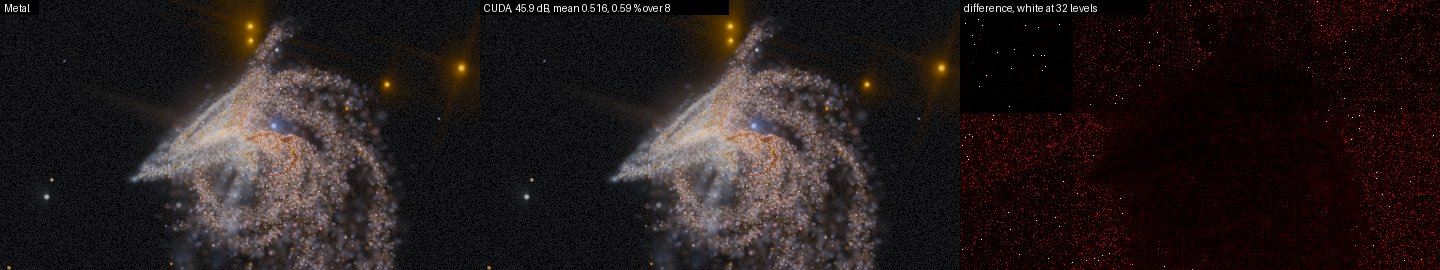
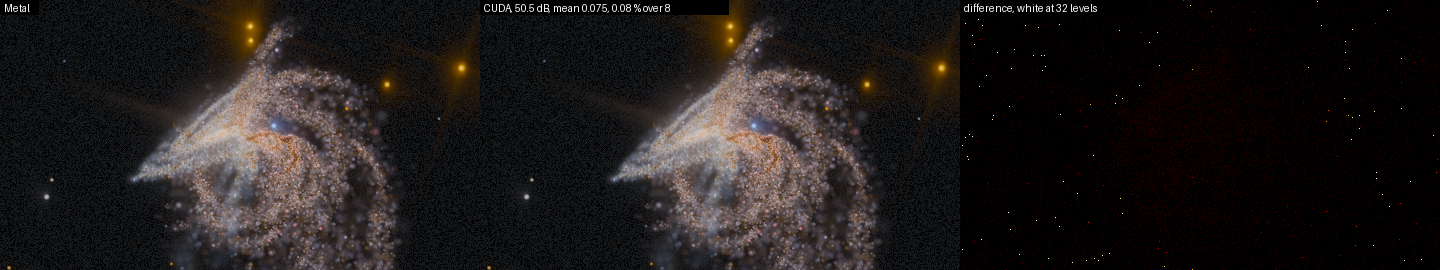
docs(cuda): the stills' pairs after the grain's second change (#277)

diff --git a/docs/spikes/cuda-checks/stills/compare/pairs/comparison.md b/docs/spikes/cuda-checks/stills/compare/pairs/comparison.md
@@ -1,11 +1,11 @@
 | frame | drawn | half floats in the particle passes | Metal's light developed here |
 | --- | --- | --- | --- |
-| hubble-close | 47.8 dB, mean 0.357, 0.37 % over 8 | 47.8 dB, mean 0.347, 0.37 % over 8 | 47.9 dB, mean 0.341, 0.37 % over 8 |
-| hubble-noweb-close | 47.8 dB, mean 0.352, 0.36 % over 8 | 47.9 dB, mean 0.342, 0.36 % over 8 | 47.9 dB, mean 0.340, 0.37 % over 8 |
-| hubble-noweb-pericentre | 45.9 dB, mean 0.516, 0.59 % over 8 | 45.9 dB, mean 0.505, 0.59 % over 8 | 45.9 dB, mean 0.505, 0.59 % over 8 |
-| hubble-noweb-wide | 46.7 dB, mean 0.300, 0.42 % over 8 | 46.7 dB, mean 0.289, 0.42 % over 8 | 46.7 dB, mean 0.289, 0.42 % over 8 |
-| hubble-pericentre | 45.9 dB, mean 0.515, 0.59 % over 8 | 45.9 dB, mean 0.506, 0.59 % over 8 | 45.9 dB, mean 0.505, 0.59 % over 8 |
-| hubble-wide | 46.7 dB, mean 0.298, 0.41 % over 8 | 46.7 dB, mean 0.289, 0.42 % over 8 | 46.7 dB, mean 0.289, 0.42 % over 8 |
+| hubble-close | 52.4 dB, mean 0.065, 0.06 % over 8 | 52.6 dB, mean 0.047, 0.06 % over 8 | 52.7 dB, mean 0.040, 0.06 % over 8 |
+| hubble-noweb-close | 52.5 dB, mean 0.062, 0.06 % over 8 | 52.7 dB, mean 0.043, 0.06 % over 8 | 52.8 dB, mean 0.040, 0.06 % over 8 |
+| hubble-noweb-pericentre | 50.5 dB, mean 0.075, 0.08 % over 8 | 50.7 dB, mean 0.050, 0.08 % over 8 | 50.7 dB, mean 0.048, 0.08 % over 8 |
+| hubble-noweb-wide | 49.4 dB, mean 0.075, 0.10 % over 8 | 49.5 dB, mean 0.056, 0.10 % over 8 | 49.5 dB, mean 0.056, 0.10 % over 8 |
+| hubble-pericentre | 50.5 dB, mean 0.075, 0.08 % over 8 | 50.7 dB, mean 0.051, 0.08 % over 8 | 50.7 dB, mean 0.048, 0.08 % over 8 |
+| hubble-wide | 49.4 dB, mean 0.073, 0.10 % over 8 | 49.5 dB, mean 0.056, 0.10 % over 8 | 49.5 dB, mean 0.056, 0.10 % over 8 |
 | raw-close | 52.2 dB, mean 0.007, 0.01 % over 8 | 52.3 dB, mean 0.004, 0.01 % over 8 | exact, mean 0.000, 0.00 % over 8 |
 | raw-pericentre | 55.3 dB, mean 0.004, 0.00 % over 8 | 55.3 dB, mean 0.002, 0.00 % over 8 | exact, mean 0.000, 0.00 % over 8 |
 | raw-wide | 55.6 dB, mean 0.002, 0.00 % over 8 | 55.6 dB, mean 0.001, 0.00 % over 8 | exact, mean 0.000, 0.00 % over 8 |
